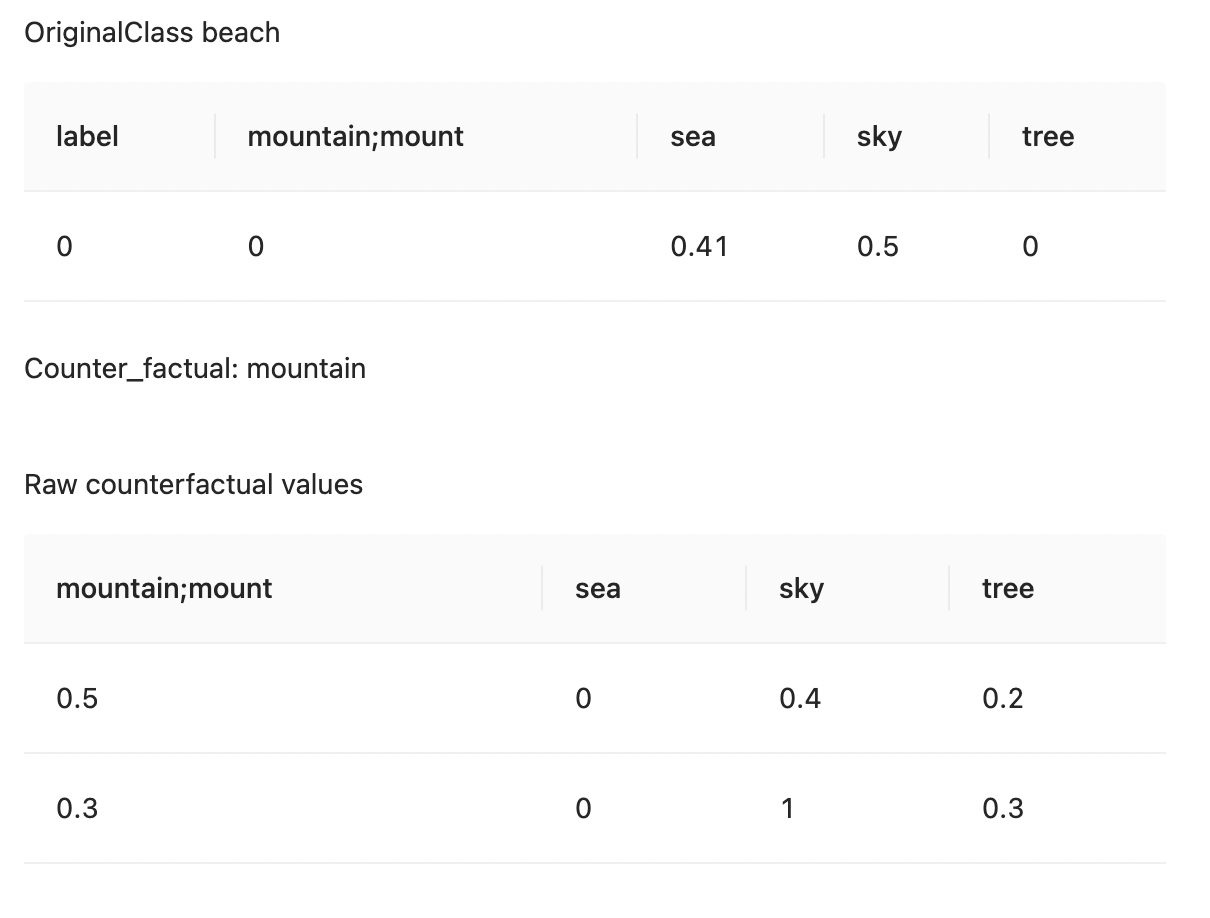
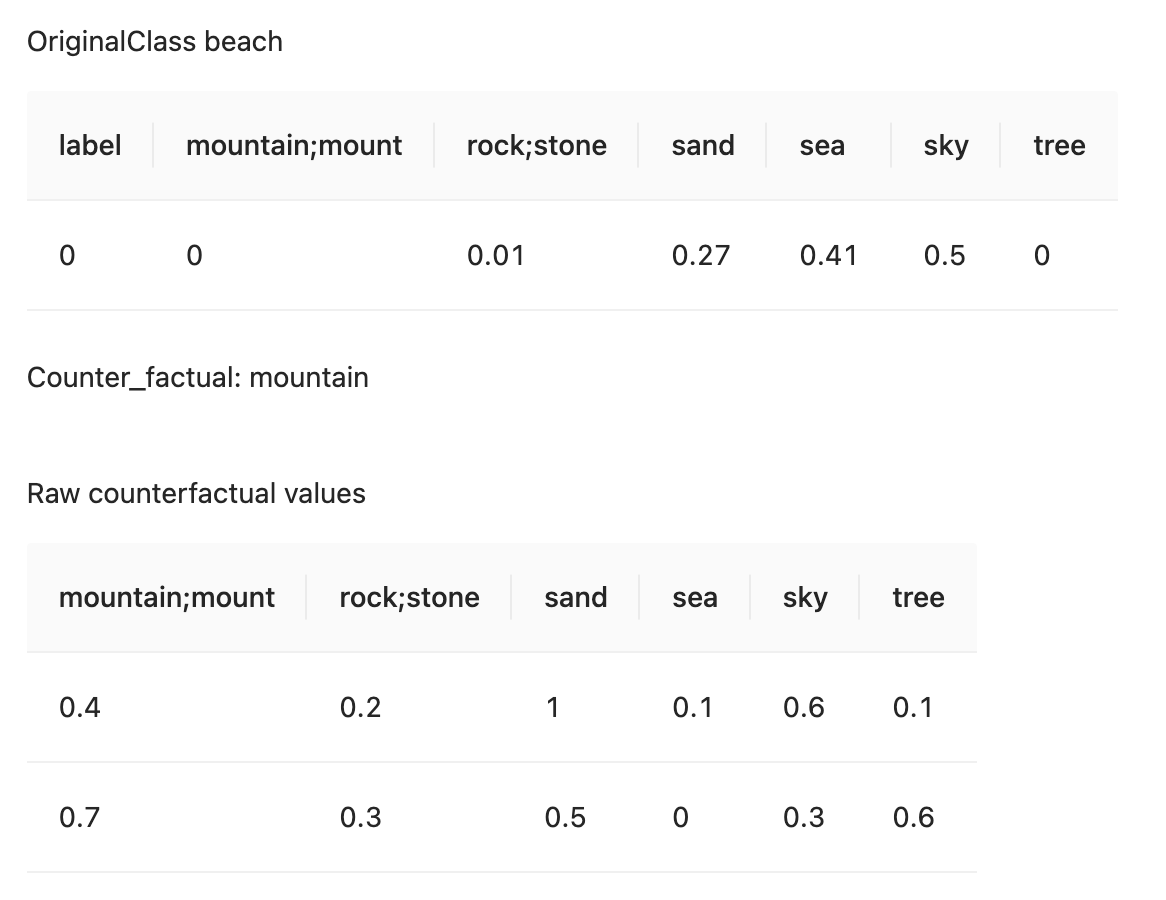
Change readme (#39)
* change readme

* Update README.md

diff --git a/README.md b/README.md
@@ -61,10 +61,13 @@ We're using all of the concepts specified by you to train a decision tree that e
 
 ![Tree concepts](./docs/select_tree_concepts.png)
 
-The decision tree-based explanation for this image is:
-This image is a beach because the % of the sea in the image is less than 41% and the % of trees is bigger than 0%
+For example, if we choose those concepts (tree, sea, sky, rock; stone, sand) then we get the following explanation
 
 ![Tree explain](./docs/tree_explain.png)
+
+This image contains a few, but some are more important than others. For this specific instance the presence of <b>sea</b> (52.28%) and <b>sand</b> (39.02%) are mostly responsible for <b>beach</b> classification. Concept <b>rock; stone</b> (8.7%) also contributed to it, but <b>sand</b> and <b>tree</b> didn't contribute at all to this classification.
+<br/>
+Overall, sand and tree contributed to the classification, but the feature importance order stayed the same.
 
 #### Counterfactual explanation
 
@@ -72,7 +75,7 @@ For counterfactual explanations, you need to select the counterfactual class fro
 
 ![Select counterfactual](./docs/select_mountain.png)
 
-And also the concepts from the counterfactual class (mountain)
+And also the concepts from the counterfactual class <b>mountain</b>
 
 ![Mountain concepts](./docs/mountain_concepts.png)
 
@@ -80,9 +83,9 @@ The program generates 2 synthetic counterfactual explanations.
 
 ![Counterfactual explanations](./docs/counterfactual_explain.png)
 
-First, this image would be classified as <b>mountain</b> if 50% of the image would be a mountain, 40% sky, and 20% tree.<br>
-Secondly, this image could be classified as a <b>mountain</b> if 30% of the image would be a mountain, 100% a sky, and 30% a tree.
+First, this image would be classified as <b>mountain</b> if 60% of the image would be a sky, 40% mountain, and 20% rock<br>
+Secondly, this image could be classified as a <b>mountain</b> if 70% of the image would be a mountain, 60% tree, and 50% sand.
 
 The concepts are not mutually exclusive, therefore the sum can be greater than 100%. For example, 60% of the image can be a sea, and 50% of the image can be a sky because there's an overlap between them. The concept representation sum can also be smaller than 100% because there typically are concepts that the user did not select as part of their explanation.
 
-These counterfactuals explanations indicate that the presence of <b>sea</b> plaid an important role in classifying the previous image as a <b>beach</b>
+These counterfactual explanations indicate that the presence of the sky paid an important role in classifying the previous image as a <b>beach</b>. The counterfactual explanations also indicate that the presence of a mountain would improve the chances of this image being classified as a <b>mountain</b>.
